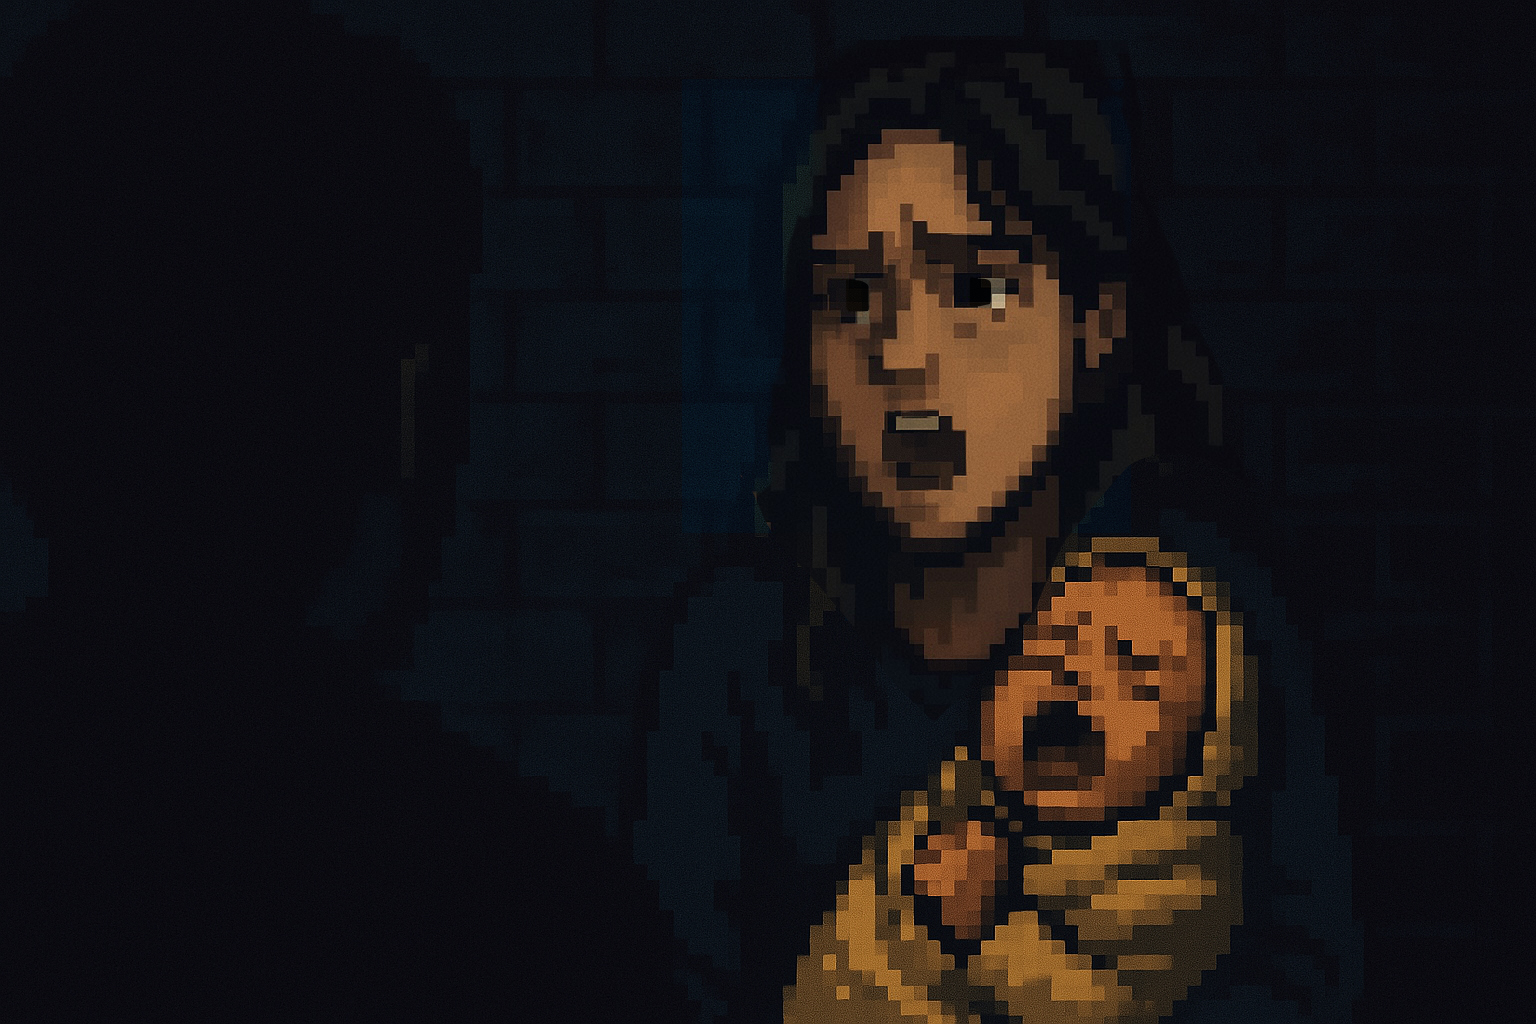
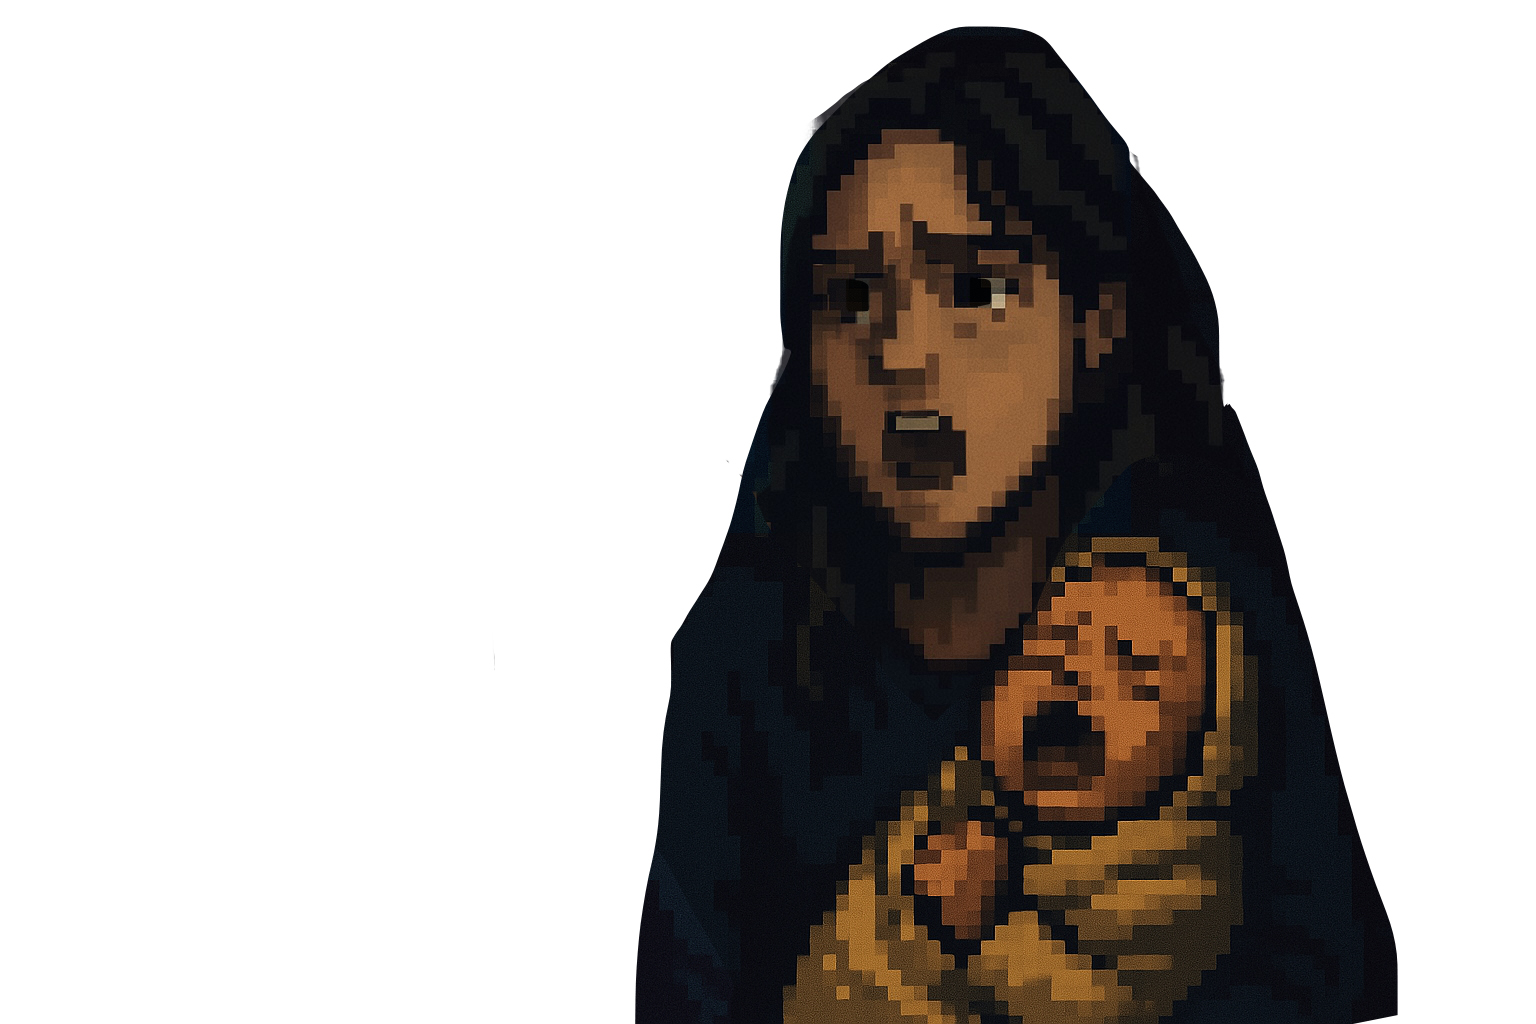
Improve visual novel: Add character shaking during dialog, prevent click-through during typing, remove final text prompt

diff --git a/visual-novel/script.js b/visual-novel/script.js
@@ -21,112 +21,125 @@ const dialog = [
     { speaker: "W", text: "[cracking] Don't do this. You can't drive. You're gonna abandon another thing that needed you? You know what? Go to HELL." }
 ];
 
-// Three.js setup
-let scene, camera, renderer, plane;
-let madTexture, sadTexture, madMaterial, sadMaterial;
 let currentLine = 0;
+let isTyping = false;
 const dialogBox = document.getElementById('dialogBox');
 const choiceButton = document.getElementById('choiceButton');
+const wifeMad = document.getElementById('wifeMad');
+const wifeSad = document.getElementById('wifeSad');
+const husband = document.getElementById('husband');
 
-// Initialize Three.js scene
+// Initialize the visual novel
 function init() {
-    // Create scene
-    scene = new THREE.Scene();
-    
-    // Create camera
-    camera = new THREE.PerspectiveCamera(75, window.innerWidth / window.innerHeight, 0.1, 1000);
-    camera.position.z = 1;
-
-    // Create renderer
-    renderer = new THREE.WebGLRenderer({ antialias: true });
-    renderer.setSize(window.innerWidth, window.innerHeight);
-    renderer.setPixelRatio(window.devicePixelRatio);
-    document.body.appendChild(renderer.domElement);
-
-    // Load textures
-    const textureLoader = new THREE.TextureLoader();
-    madTexture = textureLoader.load('assets/mad.jpg', adjustPlaneSize);
-    sadTexture = textureLoader.load('assets/sad.jpg');
-
-    // Create materials
-    madMaterial = new THREE.MeshBasicMaterial({ map: madTexture });
-    sadMaterial = new THREE.MeshBasicMaterial({ map: sadTexture });
-
-    // Create plane (temporary size, will be adjusted when texture loads)
-    const geometry = new THREE.PlaneGeometry(2, 2);
-    plane = new THREE.Mesh(geometry, madMaterial);
-    scene.add(plane);
-
-    // Handle window resize
-    window.addEventListener('resize', onWindowResize, false);
-
-    // Start animation loop
-    animate();
-
-    // Show first line of dialog
     updateDialog();
+    // Add click event listeners
+    document.addEventListener('click', handleClick);
+    choiceButton.addEventListener('click', () => {
+        window.location.href = '/driving-game/driving.html?playMusic=true&beerCount=3';
+    });
 }
 
-// Adjust plane size to match screen aspect ratio and fill screen
-function adjustPlaneSize() {
-    const imageAspect = madTexture.image.width / madTexture.image.height;
-    const screenAspect = window.innerWidth / window.innerHeight;
-    
-    let planeWidth, planeHeight;
-    
-    if (screenAspect > imageAspect) {
-        // Screen is wider than image
-        planeWidth = 2;
-        planeHeight = 2 / screenAspect * imageAspect;
-    } else {
-        // Screen is taller than image
-        planeHeight = 2;
-        planeWidth = 2 * screenAspect / imageAspect;
-    }
-    
-    plane.scale.set(planeWidth, planeHeight, 1);
-}
-
-// Update dialog text and background
-function updateDialog() {
-    if (currentLine < dialog.length) {
-        const line = dialog[currentLine];
-        dialogBox.textContent = `${line.speaker}: ${line.text}`;
-        
-        // Switch background based on speaker
-        plane.material = line.speaker === "W" ? madMaterial : sadMaterial;
-    } else {
-        dialogBox.textContent = "What will you do?";
-        choiceButton.style.display = 'block';
-    }
-}
-
-// Handle window resize
-function onWindowResize() {
-    camera.aspect = window.innerWidth / window.innerHeight;
-    camera.updateProjectionMatrix();
-    renderer.setSize(window.innerWidth, window.innerHeight);
-    adjustPlaneSize();
-}
-
-// Animation loop
-function animate() {
-    requestAnimationFrame(animate);
-    renderer.render(scene, camera);
-}
-
-// Event listeners
-document.addEventListener('click', (event) => {
+// Handle click events
+function handleClick(event) {
     // Ignore clicks on the choice button
     if (event.target === choiceButton) return;
     
-    currentLine++;
-    updateDialog();
-});
+    // Only allow clicks when not typing
+    if (!isTyping) {
+        currentLine++;
+        updateDialog();
+    }
+}
 
-choiceButton.addEventListener('click', () => {
-    window.location.href = '/driving-game/driving.html?playMusic=true&beerCount=3';
-});
+// Type out text character by character
+function typeText(text) {
+    isTyping = true;
+    dialogBox.classList.add('typing');
+    let index = 0;
+    dialogBox.textContent = '';
+    
+    function type() {
+        if (index < text.length) {
+            dialogBox.textContent += text.charAt(index);
+            index++;
+            setTimeout(type, 30); // Adjust speed here (lower = faster)
+        } else {
+            completeTyping();
+            // Stop shaking when typing is complete
+            wifeMad.classList.remove('shaking');
+            wifeSad.classList.remove('shaking');
+            husband.classList.remove('shaking');
+        }
+    }
+    
+    type();
+}
+
+// Complete the current typing animation
+function completeTyping() {
+    isTyping = false;
+    dialogBox.classList.remove('typing');
+    if (currentLine < dialog.length) {
+        const line = dialog[currentLine];
+        dialogBox.textContent = `${line.speaker}: ${line.text}`;
+    }
+    // Stop shaking when typing is complete
+    wifeMad.classList.remove('shaking');
+    wifeSad.classList.remove('shaking');
+    husband.classList.remove('shaking');
+}
+
+// Update character states and start shake animation
+function updateCharacterStates(speaker) {
+    // Reset all character states
+    wifeMad.style.opacity = "0";
+    wifeSad.style.opacity = "0";
+    husband.style.opacity = "0.8"; // Keep husband always visible at 80% opacity by default
+    
+    // Remove shake animations first
+    wifeMad.classList.remove('shaking');
+    wifeSad.classList.remove('shaking');
+    husband.classList.remove('shaking');
+    
+    if (speaker === "W") {
+        // Show mad wife by default when speaking
+        wifeMad.style.opacity = "1";
+        // Start shaking only during typing
+        wifeMad.classList.add('shaking');
+    } else if (speaker === "H") {
+        // When husband speaks, show sad wife in background
+        wifeSad.style.opacity = "0.8";
+        husband.style.opacity = "1";
+        // Start shaking only during typing
+        husband.classList.add('shaking');
+    }
+}
+
+// Update dialog and character visibility
+function updateDialog() {
+    if (currentLine < dialog.length) {
+        const line = dialog[currentLine];
+        
+        // Special case for the final line where wife is emotional
+        if (currentLine === dialog.length - 1) {
+            wifeMad.style.opacity = "0";
+            wifeSad.style.opacity = "1";
+            wifeSad.classList.add('shaking');
+            husband.style.opacity = "0.8";
+        } else {
+            updateCharacterStates(line.speaker);
+        }
+        
+        typeText(`${line.speaker}: ${line.text}`);
+    } else {
+        dialogBox.textContent = ""; // Remove the text
+        choiceButton.style.display = 'block';
+        // For the choice, keep husband visible but fade characters slightly
+        wifeMad.style.opacity = "0";
+        wifeSad.style.opacity = "0";
+        husband.style.opacity = "0.6";
+    }
+}
 
 // Start the visual novel
 init(); 

diff --git a/visual-novel/index.html b/visual-novel/index.html
@@ -10,42 +10,114 @@
             padding: 0;
             box-sizing: border-box;
         }
-        body {
-            overflow: hidden;
-            background: black;
-        }
-        canvas {
-            display: block;
+
+        .visual-novel {
+            position: relative;
             width: 100vw;
             height: 100vh;
-            position: fixed;
+            background: black;
+            overflow: hidden;
+        }
+
+        .scene-layer {
+            position: absolute;
             top: 0;
             left: 0;
-            z-index: 1;
+            width: 100%;
+            height: 100%;
+            transition: opacity 0.5s ease;
         }
+
+        .background {
+            z-index: 1;
+            background: url('assets/background.jpg') center center;
+            background-size: cover;
+            opacity: 1;
+        }
+
+        .wife-layer {
+            z-index: 2;
+            position: absolute;
+            width: 100%;
+            height: 100%;
+        }
+
+        .husband-layer {
+            z-index: 3;
+            position: absolute;
+            width: 100%;
+            height: 100%;
+        }
+
+        .character {
+            height: 90vh;
+            width: auto;
+            object-fit: contain;
+            position: absolute;
+            bottom: 0;
+            opacity: 0;
+            transition: opacity 0.3s ease;
+        }
+
+        .wife { 
+            right: 10%;
+        }
+
+        .husband { 
+            left: 10%;
+        }
+
+        @keyframes shake {
+            0%, 100% { transform: translateX(0); }
+            25% { transform: translateX(-2px); }
+            75% { transform: translateX(2px); }
+        }
+
+        .shaking {
+            animation: shake 0.2s ease-in-out infinite;
+        }
+
         #dialogBox {
             position: fixed;
             bottom: 50px;
             left: 50%;
             transform: translateX(-50%);
             width: 80%;
+            max-width: 1200px;
             padding: 20px;
             background: rgba(0, 0, 0, 0.8);
             color: white;
             font-family: Arial, sans-serif;
-            font-size: 24px;
+            font-size: clamp(16px, 3vw, 24px);
             text-align: center;
             border-radius: 10px;
             line-height: 1.4;
-            z-index: 2;
+            z-index: 100;
             cursor: pointer;
             transition: text-shadow 0.3s ease;
+            min-height: 100px;
         }
+
+        #dialogBox.typing::after {
+            content: '▼';
+            position: absolute;
+            bottom: 10px;
+            right: 20px;
+            opacity: 0;
+            animation: blink 1s infinite;
+        }
+
+        @keyframes blink {
+            0%, 100% { opacity: 0; }
+            50% { opacity: 1; }
+        }
+
         #dialogBox:hover {
             text-shadow: 0 0 10px rgba(255, 255, 255, 0.8),
                          0 0 20px rgba(255, 255, 255, 0.5),
                          0 0 30px rgba(255, 255, 255, 0.3);
         }
+
         #choiceButton {
             position: fixed;
             bottom: 150px;
@@ -56,24 +128,47 @@
             color: white;
             border: none;
             border-radius: 5px;
-            font-size: 20px;
+            font-size: clamp(14px, 2vw, 20px);
             cursor: pointer;
             display: none;
             font-family: Arial, sans-serif;
             transition: all 0.3s;
-            z-index: 2;
+            z-index: 100;
         }
+
         #choiceButton:hover {
             background: #cc0000;
             text-shadow: 0 0 10px rgba(255, 255, 255, 0.5);
             box-shadow: 0 0 15px rgba(255, 0, 0, 0.5);
         }
+
+        @media (max-width: 768px) {
+            .character {
+                height: 70vh;
+            }
+            #dialogBox {
+                width: 90%;
+                bottom: 30px;
+            }
+            #choiceButton {
+                bottom: 120px;
+            }
+        }
     </style>
 </head>
 <body>
-    <div id="dialogBox"></div>
-    <button id="choiceButton">Take the keys and leave</button>
-    <script src="https://cdnjs.cloudflare.com/ajax/libs/three.js/r134/three.min.js"></script>
+    <div class="visual-novel">
+        <div class="scene-layer background"></div>
+        <div class="scene-layer wife-layer">
+            <img class="character wife" src="assets/mad.png" alt="Wife Mad" id="wifeMad">
+            <img class="character wife" src="assets/sad.png" alt="Wife Sad" id="wifeSad">
+        </div>
+        <div class="scene-layer husband-layer">
+            <img class="character husband" src="assets/husband.png" alt="Husband" id="husband">
+        </div>
+        <div id="dialogBox"></div>
+        <button id="choiceButton">Take the keys and leave</button>
+    </div>
     <script src="script.js"></script>
 </body>
 </html> 
